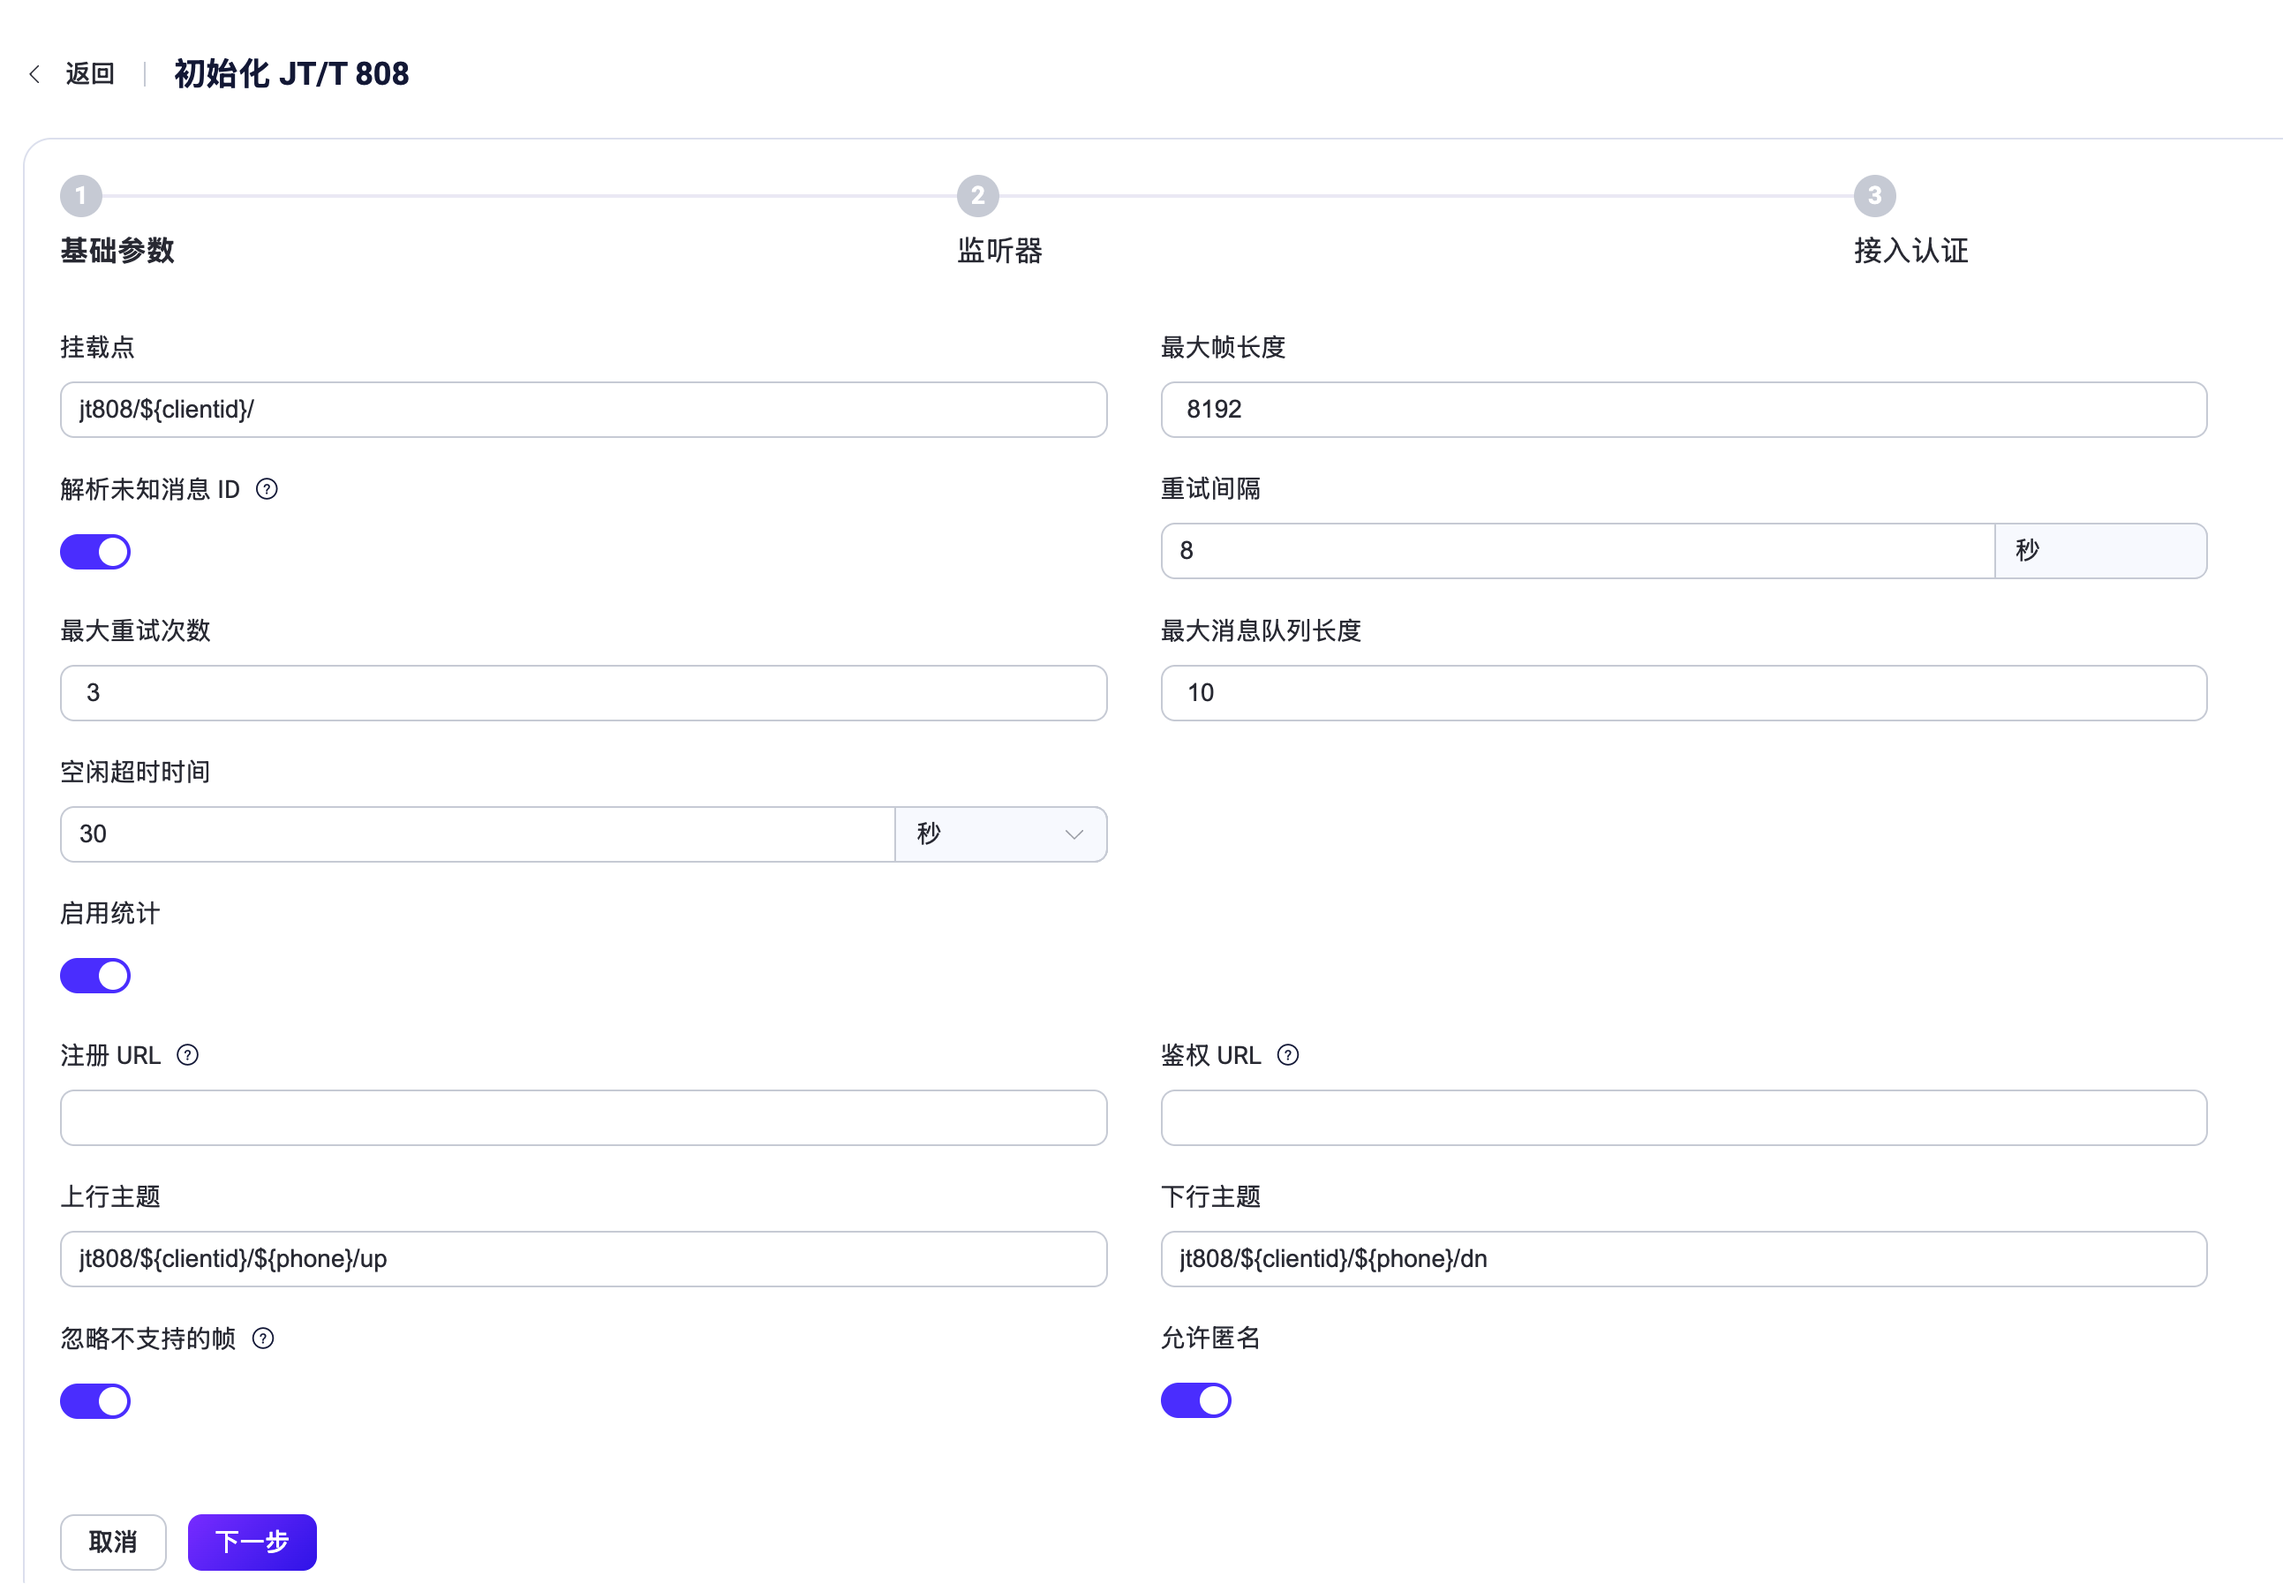
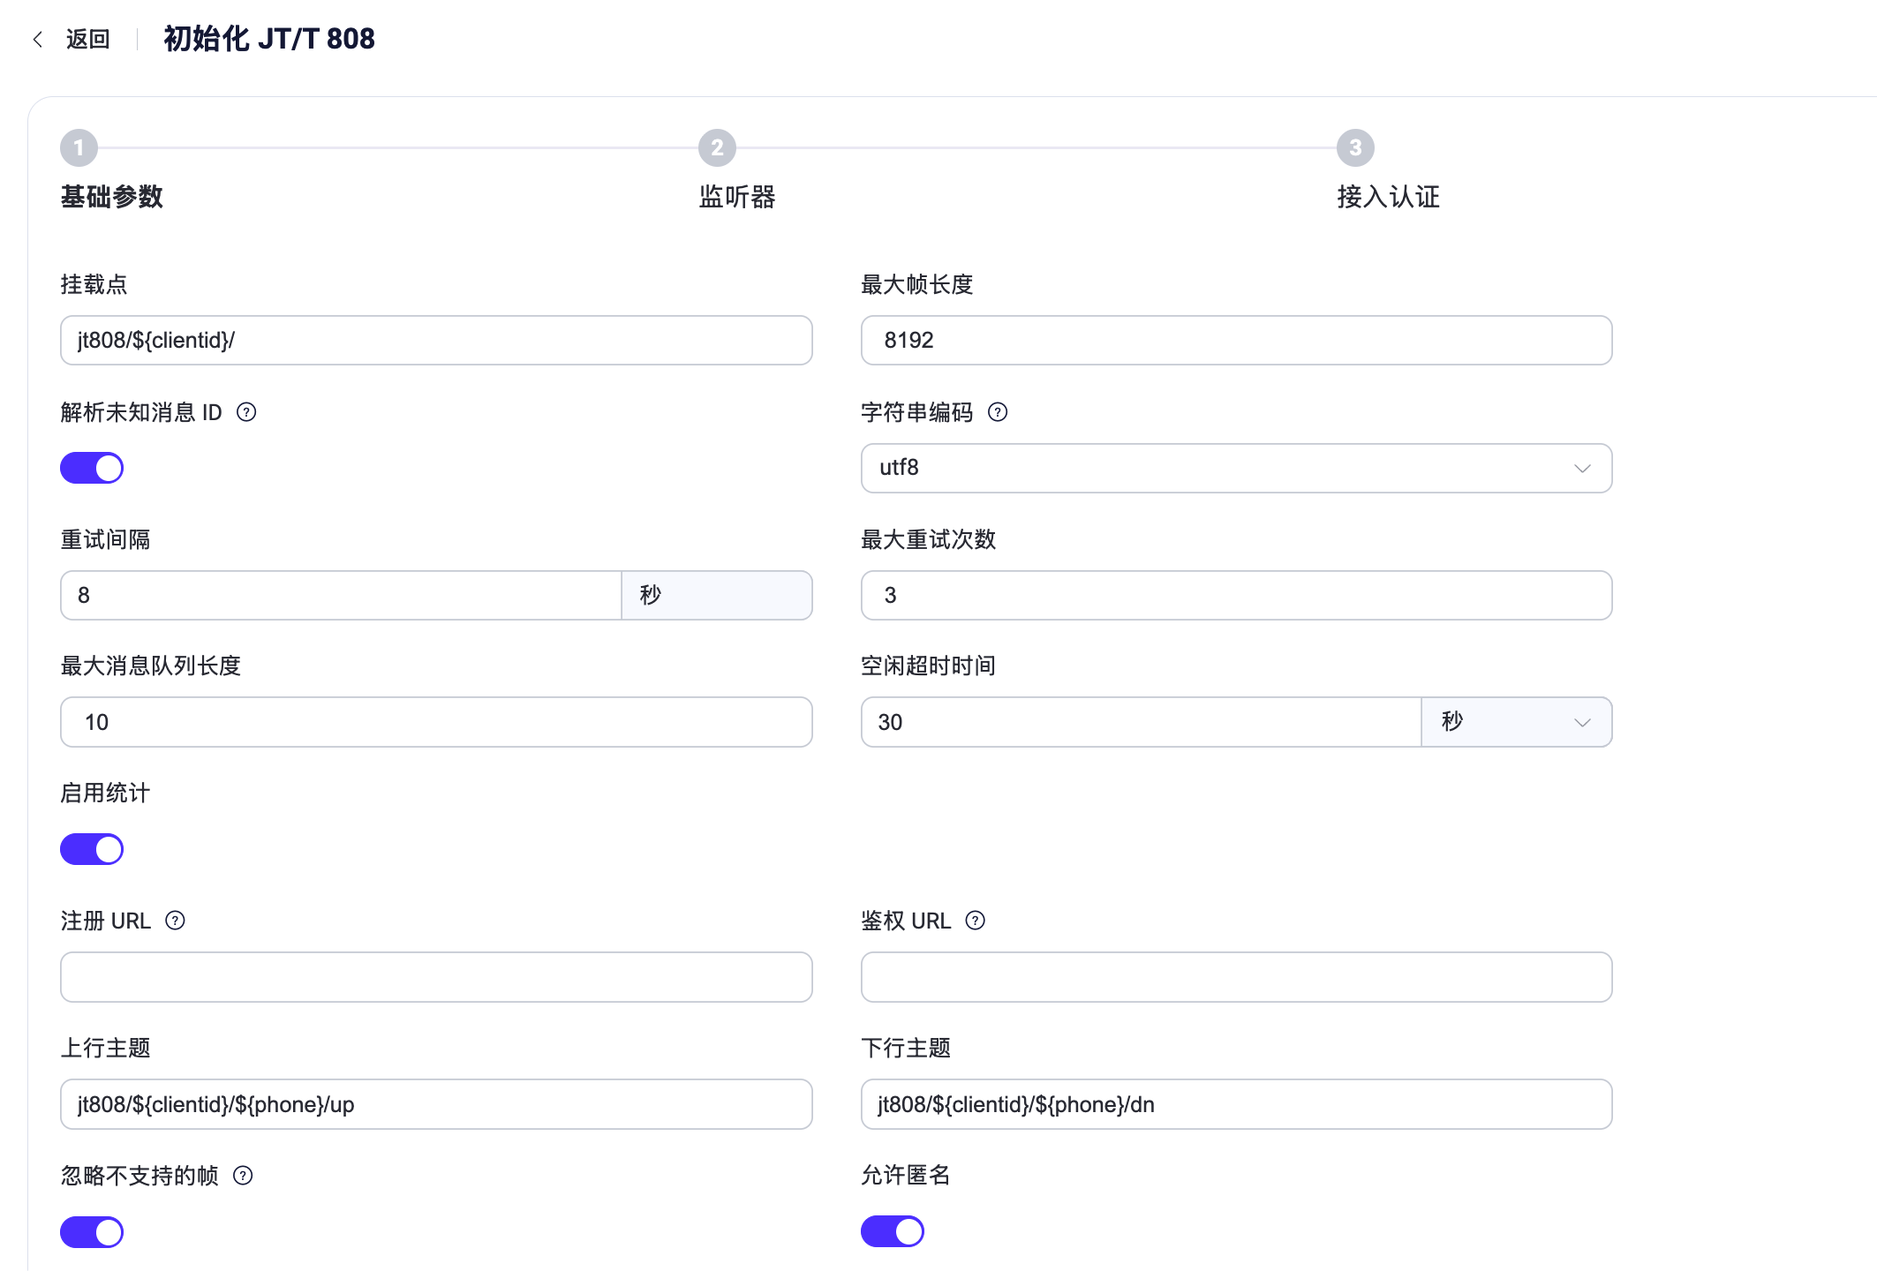
chore(jt808): Update string_encoding params

diff --git a/zh_CN/gateway/jt808.md b/zh_CN/gateway/jt808.md
@@ -137,6 +137,9 @@ JT/T 808 网关仅支持 TCP 类型的监听器，其完整可配置的参数列
 - **解析未知消息 ID**：是否解析非标准协议中消息ID。
     - 设置为 `true` 时，网关会将这条消息内容以 base64 的方式编码后发送出来。默认值为 `true`。
     - 设置为 `false` 时，网关会忽略该消息、或者断开客户端连接。这取决于**忽略不支持的帧**配置。
+- **字符串编码**：设置网关如何解析设备上报、和封装网关下发到设备的字符串格式。
+  - 设置为 `utf8` 时，网关会按 `UTF-8` 解析设备上报的字符串。默认值为 `UTF-8`
+  - 设置为 `gbk` 时，网关会按 `GBK` 解析设备上报的字符串。并将其转换为 `UTF-8` 格式的字符串，用于消息发布到 EMQX。
 - **重试间隔**：消息发送失败时网关尝试重发的时间间隔。默认值为 `8秒`。
 - **最大重试次数**：网关尝试发送消息的最大尝试次数。超过此数值后，如果消息仍无法发送，则会被丢弃。默认值为：`3`。
 - **最大消息队列长度**：下行流消息传递的最大消息队列长度。默认值为：`10`。
